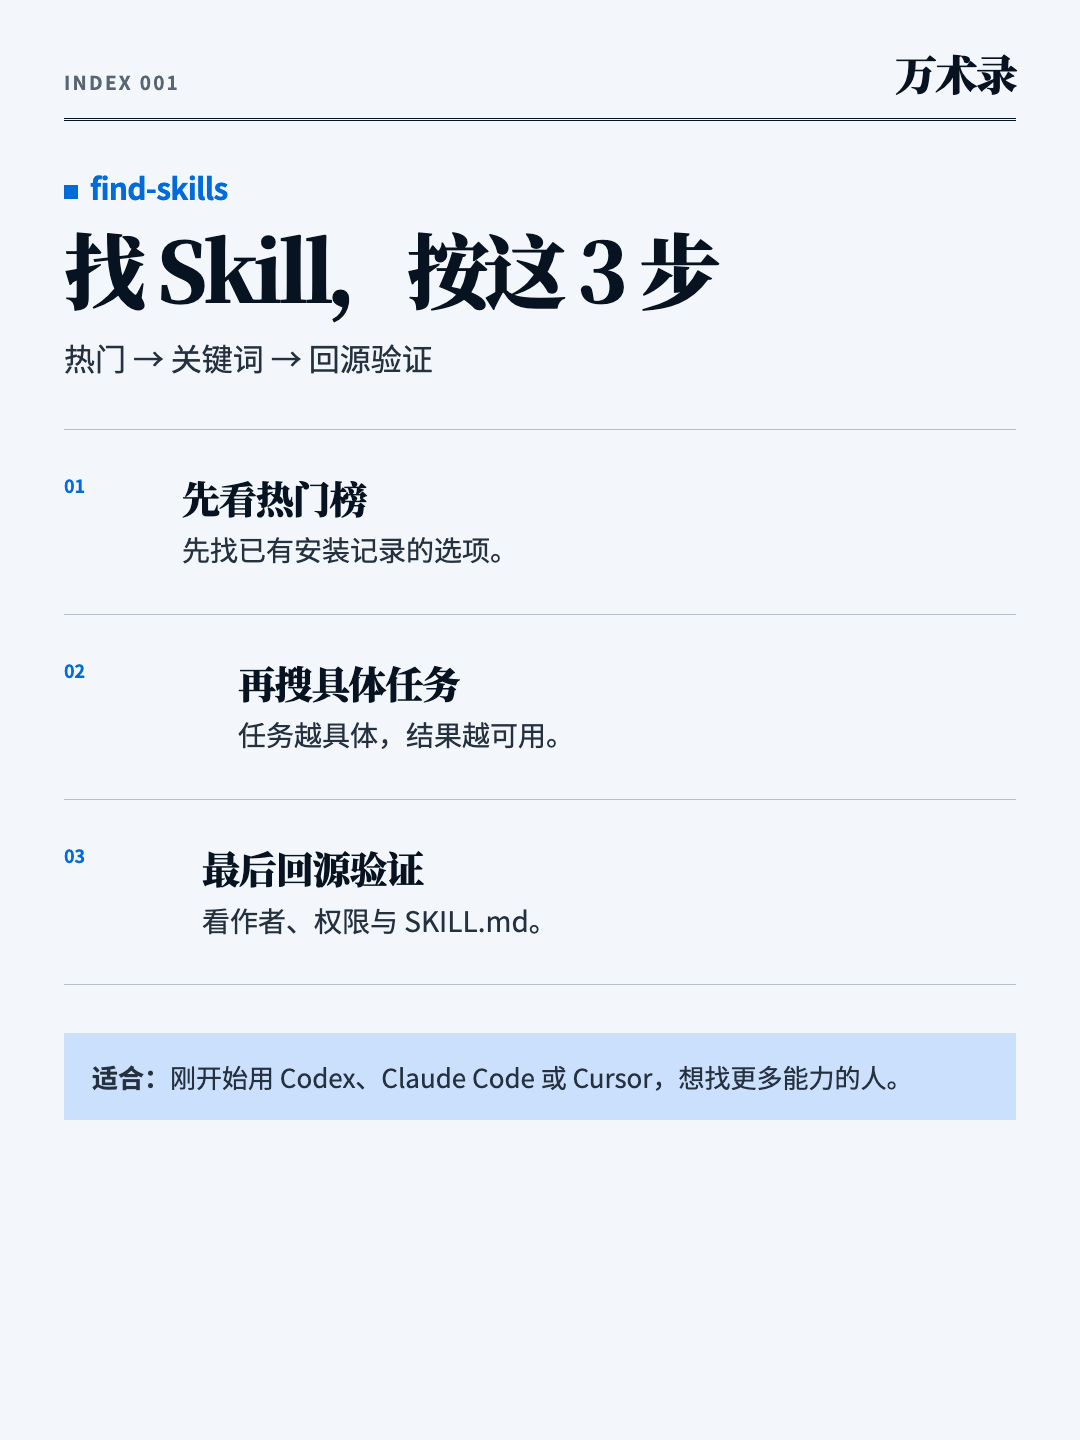
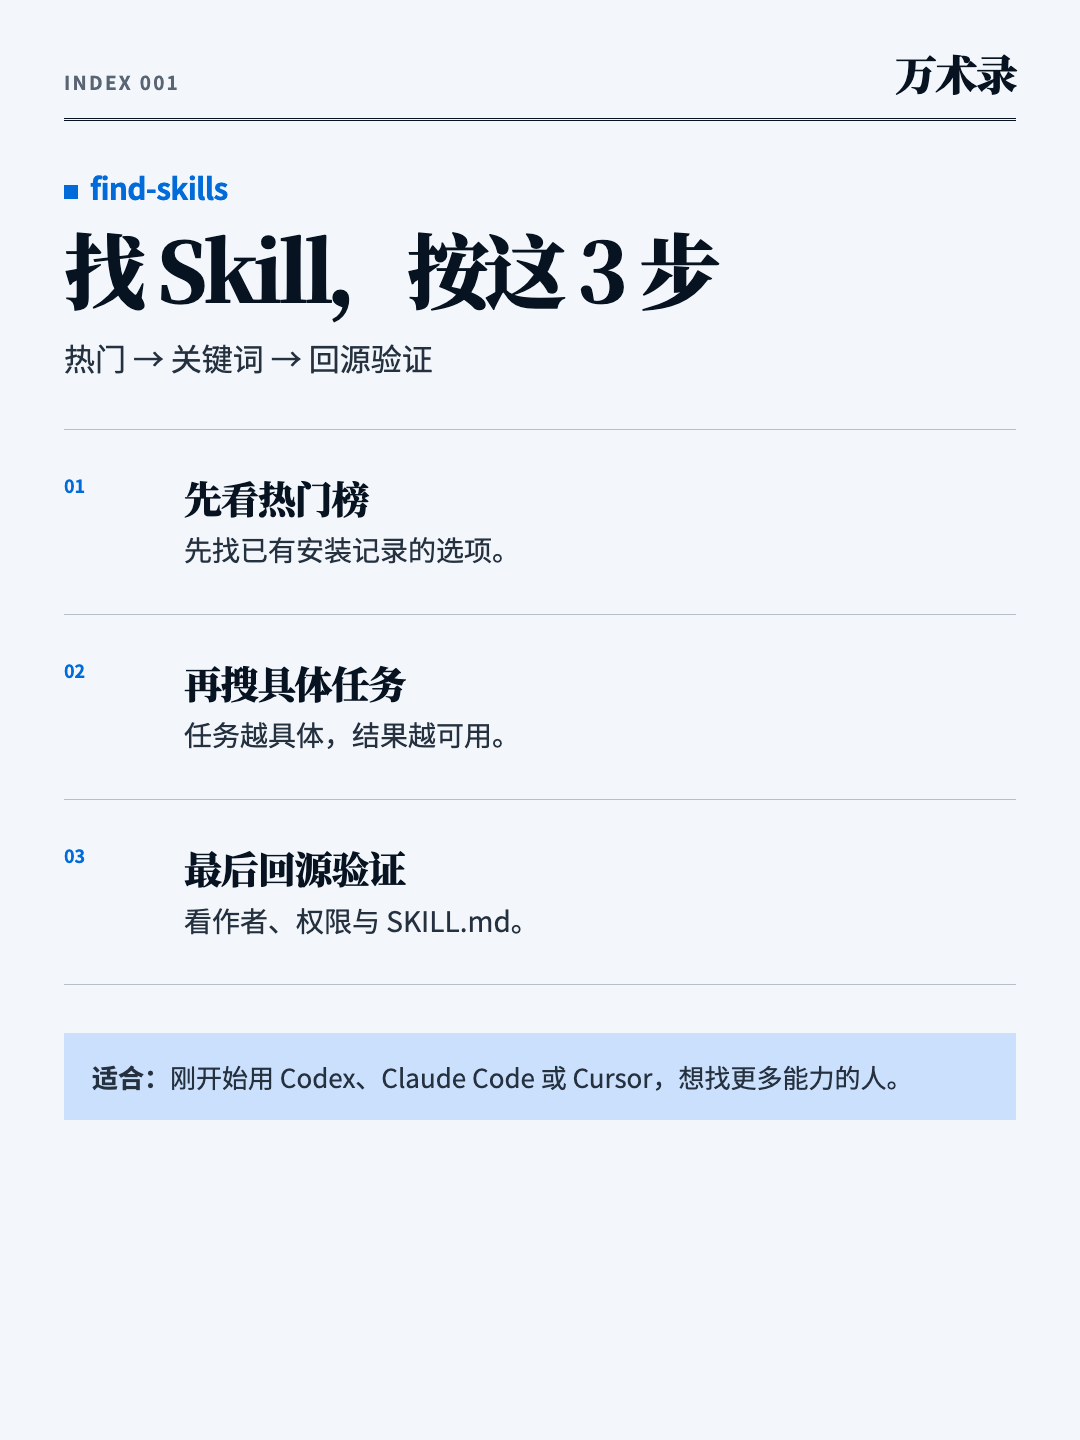
Fix v1.1 compact card alignment

Changed region(s): [[0.1528, 0.4375, 0.5194, 0.5312], [0.1528, 0.5938, 0.4889, 0.6562], [0.1528, 0.3125, 0.4583, 0.4062]]

diff --git a/pipelines/v1.1/layout/card-template.css b/pipelines/v1.1/layout/card-template.css
@@ -1,6 +1,6 @@
-/* Hallmark · genre: editorial · macrostructure: Workbench variation · theme: Skillog Editorial · knobs: density + stagger + grouping · enrichment: none on interior cards · nav: N6 masthead · footer: none · contrast: pass (40–41) · honest: pass (46) · chrome: pass (47) · tokens: pass (48) · icons: pass (30) · mobile: pass (34, 49, 50–57) */
-/* Hallmark · pre-emit critique: P5 H5 E5 S5 R5 V5 */
-/* Skillog card system v1.1 trial · content-height modules · seeded layout variants · formal v1 untouched */
+/* Hallmark · genre: editorial · macrostructure: Workbench fixed · theme: Skillog Editorial · knobs: compact density + shared alignment · enrichment: approved mascot on cover only · nav: N6 masthead · footer: none · contrast: pass (40–41) · honest: pass (46) · chrome: pass (47) · tokens: pass (48) · icons: pass (30) · mobile: pass (34, 49, 50–57) */
+/* Hallmark · pre-emit critique: P5 H5 E5 S5 R5 V4 */
+/* Skillog card system v1.1 trial · fixed compact layout · no randomness · formal v1 untouched */
 @import url("./tokens.css");
 
 * {
@@ -135,7 +135,7 @@ body {
 .result-panel {
   align-self: start;
   min-height: 0;
-  padding: 28px 32px;
+  padding: 36px 36px 32px;
   border: var(--rule-hair) solid var(--color-rule);
   border-radius: var(--radius-frame);
   background: var(--color-paper-2);
@@ -211,7 +211,7 @@ body {
 
 .result-page__stats {
   display: grid;
-  grid-template-columns: 1.1fr 0.9fr;
+  grid-template-columns: repeat(2, minmax(0, 1fr));
   gap: 40px;
 }
 
@@ -255,9 +255,9 @@ body {
 
 .step {
   display: grid;
-  grid-template-columns: 100px minmax(0, 1fr);
+  grid-template-columns: 88px minmax(0, 1fr);
   gap: 32px;
-  padding-block: 36px;
+  padding-block: 44px;
   border-block-start: var(--rule-hair) solid var(--color-rule);
 }
 
@@ -306,7 +306,7 @@ body {
 }
 
 .command-block {
-  padding: 32px;
+  padding: 44px 36px;
   border-block: var(--rule-strong) solid var(--color-ink);
   background: var(--color-paper-2);
 }
@@ -334,7 +334,7 @@ body {
   display: grid;
   grid-template-columns: 190px minmax(0, 1fr);
   gap: 32px;
-  padding-block: 24px;
+  padding-block: 36px;
   border-block-end: var(--rule-hair) solid var(--color-rule);
 }
 
@@ -354,8 +354,9 @@ body {
   display: grid;
   grid-template-columns: auto minmax(0, 1fr);
   gap: 24px;
-  align-items: start;
-  padding: 24px 28px;
+  align-items: center;
+  min-height: 136px;
+  padding: 36px 32px;
   border: var(--rule-hair) solid var(--color-warning);
   color: var(--color-ink-2);
 }
@@ -369,81 +370,6 @@ body {
   margin: 0;
   font-size: 24px;
   line-height: 1.55;
-}
-
-/* Seeded variants deliberately change only density and grouping. */
-.variant--dense-ledger .result-panel {
-  padding: 36px 36px 32px;
-}
-
-.variant--dense-ledger .result-row {
-  padding-block: 20px;
-}
-
-.variant--dense-ledger .result-page__stats {
-  gap: 56px;
-}
-
-.variant--split-stats .result-page__stats {
-  grid-template-columns: 0.82fr 1.18fr;
-  margin-inline-start: 84px;
-}
-
-.variant--split-stats .stat:nth-child(2) {
-  margin-block-start: 24px;
-}
-
-.variant--staggered-steps .step {
-  grid-template-columns: 86px minmax(0, 1fr);
-  padding-block: 44px;
-}
-
-.variant--staggered-steps .step:nth-child(2) > div {
-  margin-inline-start: 56px;
-}
-
-.variant--staggered-steps .step:nth-child(3) > div {
-  margin-inline-start: 20px;
-}
-
-.variant--number-rail .steps {
-  border-inline-start: var(--rule-strong) solid var(--color-ink);
-  padding-inline-start: 32px;
-}
-
-.variant--number-rail .step {
-  grid-template-columns: 72px minmax(0, 1fr);
-  padding-block: 40px;
-}
-
-.variant--inline-audit .command-block {
-  padding: 44px 36px;
-}
-
-.variant--inline-audit .spec {
-  padding-block: 36px;
-}
-
-.variant--inline-audit .audit-note {
-  margin-block-start: -8px;
-  min-height: 136px;
-  padding: 36px 32px;
-  align-items: center;
-}
-
-.variant--split-command .command-block {
-  display: grid;
-  grid-template-columns: 160px minmax(0, 1fr);
-  gap: 28px;
-  align-items: baseline;
-}
-
-.variant--split-command .command-block p {
-  margin: 0;
-}
-
-.variant--split-command .specs {
-  margin-inline-start: 76px;
 }
 
 @media (prefers-reduced-motion: reduce) {

diff --git a/pipelines/v1.1/layout/card-template.html b/pipelines/v1.1/layout/card-template.html
@@ -3,7 +3,7 @@
   <head>
     <meta charset="utf-8" />
     <meta name="viewport" content="width=device-width, initial-scale=1, viewport-fit=cover" />
-    <title>万术录 Skillog · v1.1 变体模板</title>
+    <title>万术录 Skillog · v1.1 固定紧凑模板</title>
     <link rel="preconnect" href="https://fonts.googleapis.com" />
     <link rel="preconnect" href="https://fonts.gstatic.com" crossorigin />
     <link href="https://fonts.googleapis.com/css2?family=JetBrains+Mono:wght@500;600&family=Noto+Sans+SC:wght@400;500;700&family=Noto+Serif+SC:wght@700;900&display=swap" rel="stylesheet" />
@@ -112,9 +112,7 @@
       window.renderSkillogCard = async (post, index) => {
         const cardData = post.cards[index];
         const card = document.querySelector("#card");
-        const variant = post.layout?.resolvedVariants?.[cardData.kind] ?? "base";
-        card.className = `card card--${cardData.kind} variant--${variant}`;
-        card.dataset.variant = variant;
+        card.className = `card card--${cardData.kind}`;
         card.innerHTML = templates[cardData.kind](post, cardData);
         fitPreview();
         await document.fonts.ready;

diff --git a/pipelines/v1.1/README.md b/pipelines/v1.1/README.md
@@ -1,6 +1,6 @@
-# Skillog 内容流水线 v1.1（试稿）
+# Skillog 内容流水线 v1.1（固定紧凑试稿）
 
-这是从正式 v1 分出的试稿流水线。它保留 v1 的文案、配图与视觉系统，只调整第 02–04 页的内容密度，并为每种页面提供两套受控版式。正式 v1 不受影响。
+这是从正式 v1 分出的固定紧凑试稿流水线。它保留 v1 的文案、配图与视觉系统，减少第 02–04 页的无信息留白，并统一文字和分隔线的对齐关系。正式 v1 不受影响。
 
 ```text
 content-style.md        选题、文案语气和信息边界
@@ -15,13 +15,9 @@ WORKFLOW.md             从帖子到网站发布的操作约束
 
 设计基线仍是手机端优先，表头仅保留左上角 `INDEX` 与右上角“万术录”；不显示日期、页码或页尾。
 
-## 可复现的版式变化
+## 固定排版规则
 
-`seed + 帖子 ID + 页面类型` 会从预先审定的变体中选出布局。相同 seed 重渲染结果完全一致；需要精确锁定时，也可以在试稿配置的 `variants` 中指定名称。
-
-- `result`：`dense-ledger` / `split-stats`
-- `intro`：`staggered-steps` / `number-rail`
-- `access`：`inline-audit` / `split-command`
+v1.1 不使用随机数、seed 或版式变体。相同内容始终生成相同布局：结果页双列统计等高对齐，步骤页所有正文使用同一左边界，安装页按命令、规格、审计顺序紧凑排列。
 
 每条帖子使用一个 `post.json` 驱动四张 1080 × 1440 PNG：
 
@@ -35,7 +31,7 @@ WORKFLOW.md             从帖子到网站发布的操作约束
 ```json
 {
   "index": "001",
-  "templateVersion": "v1.1-trial",
+  "templateVersion": "v1.1-fixed",
   "illustration": "../artwork/find-skills-illustration-v1.png",
   "illustrationAlt": "插画说明"
 }
@@ -55,6 +51,6 @@ npm run render:cards:v1.1 -- posts/SKL-0001-find-skills/data/post.json posts/SKL
 npm run verify:cards:v1.1 -- posts/SKL-0001-find-skills/data/post.json posts/SKL-0001-find-skills/trials/v1.1/layout.json
 ```
 
-试稿只写入 `posts/<post>/trials/v1.1/`，不要覆盖正式 `cards/`。用户确认后，再把选中的规则升级为下一版正式流水线。
+试稿只写入 `posts/<post>/trials/v1.1/`，不要覆盖正式 `cards/`。配置默认渲染图一至图四；用户确认后，再把固定规则升级为正式流水线。
 
 新帖子复制现有帖子目录骨架，修改内容编号、来源、真实数据与四卡文案。不要编造安装量、效果或安全结论。

diff --git a/pipelines/v1.1/WORKFLOW.md b/pipelines/v1.1/WORKFLOW.md
@@ -13,14 +13,15 @@ For every conversation in this project, archive the user-visible exchange before
 - Stage only the exact authorized files, scan them for secrets, commit, and push a fast-forward update to `origin/main`.
 - Verify Pages after material site changes.
 
-## Content cards v1.1 trial
+## Content cards v1.1 fixed trial
 
 - Keep each post's `content/`, `skill/`, `artwork/`, `data/`, and rendered `cards/` together under `posts/<content-id>-<slug>/`.
 - Keep all structured data that belongs to one post under that post's `data/`; the website build reads it from there rather than maintaining a second copy.
 - The card masthead contains only `INDEX <number>` at top left and `万术录` at top right.
 - Do not render dates, page counters, or card footers. Xiaohongshu supplies its own browsing chrome.
 - Keep trial inputs and outputs under `posts/<content-id>-<slug>/trials/v1.1/`; never overwrite the formal `cards/` directory during review.
-- Render the selected 1080 × 1440 trial cards with `npm run render:cards:v1.1 -- posts/<content-id>-<slug>/data/post.json posts/<content-id>-<slug>/trials/v1.1/layout.json`.
+- Use one fixed compact layout. Do not select layouts with randomness, seeds, or per-post variants.
+- Render all four 1080 × 1440 trial cards with `npm run render:cards:v1.1 -- posts/<content-id>-<slug>/data/post.json posts/<content-id>-<slug>/trials/v1.1/layout.json`.
 - Require the layout config path. The v1.1 renderer must fail closed when it is missing.
 
 ## Never publish

diff --git a/posts/SKL-0001-find-skills/trials/v1.1/README.md b/posts/SKL-0001-find-skills/trials/v1.1/README.md
@@ -2,8 +2,8 @@
 
 本目录只保存 `SKL-0001 find-skills` 的 v1.1 试稿，不覆盖 `../../cards/` 中的正式 v1 成图。
 
-- `layout.json`：输入 seed 与待渲染页面
-- `render-manifest.json`：渲染时实际选中的版式变体
-- `cards/`：第 02–04 页试稿 PNG
+- `layout.json`：固定排版名称与待渲染页面
+- `render-manifest.json`：本次渲染使用的固定排版记录
+- `cards/`：第 01–04 页试稿 PNG
 
-相同 seed 会得到相同版式。用户确认后，才将选中规则升级到正式流水线和帖子成图。
+v1.1 不使用随机数或 seed。相同内容始终得到相同版式；用户确认后，才将固定规则升级到正式流水线和帖子成图。

diff --git a/docs/assets/journal/conversations/2026-09-04.md b/docs/assets/journal/conversations/2026-09-04.md
@@ -1,0 +1,11 @@
+# 2026-09-04
+
+## CONV-20260904-001
+
+### 用户
+
+保留 v1.1 的紧凑排版，只去掉 randomness，并把图二的文字和底部两条线全部左对齐？ 然后给我图一到图四的所有配图
+
+### 助手结果
+
+已将 `v1.1` 收敛为固定紧凑排版，彻底移除 `seed`、随机选择和版式变体代码。结果页恢复统一左边界，底部两列统计等宽且顶线同高；步骤页三个标题与正文共用同一左边界；安装页继续紧凑排列。已重新生成图一至图四的 1080×1440 PNG，并新增自动对齐回归检查，五档宽度验证通过。正式 `v1` 模板及成图未被覆盖。

diff --git a/website/archive/conversations/2026-09-04.md b/website/archive/conversations/2026-09-04.md
@@ -1,0 +1,11 @@
+# 2026-09-04
+
+## CONV-20260904-001
+
+### 用户
+
+保留 v1.1 的紧凑排版，只去掉 randomness，并把图二的文字和底部两条线全部左对齐？ 然后给我图一到图四的所有配图
+
+### 助手结果
+
+已将 `v1.1` 收敛为固定紧凑排版，彻底移除 `seed`、随机选择和版式变体代码。结果页恢复统一左边界，底部两列统计等宽且顶线同高；步骤页三个标题与正文共用同一左边界；安装页继续紧凑排列。已重新生成图一至图四的 1080×1440 PNG，并新增自动对齐回归检查，五档宽度验证通过。正式 `v1` 模板及成图未被覆盖。
